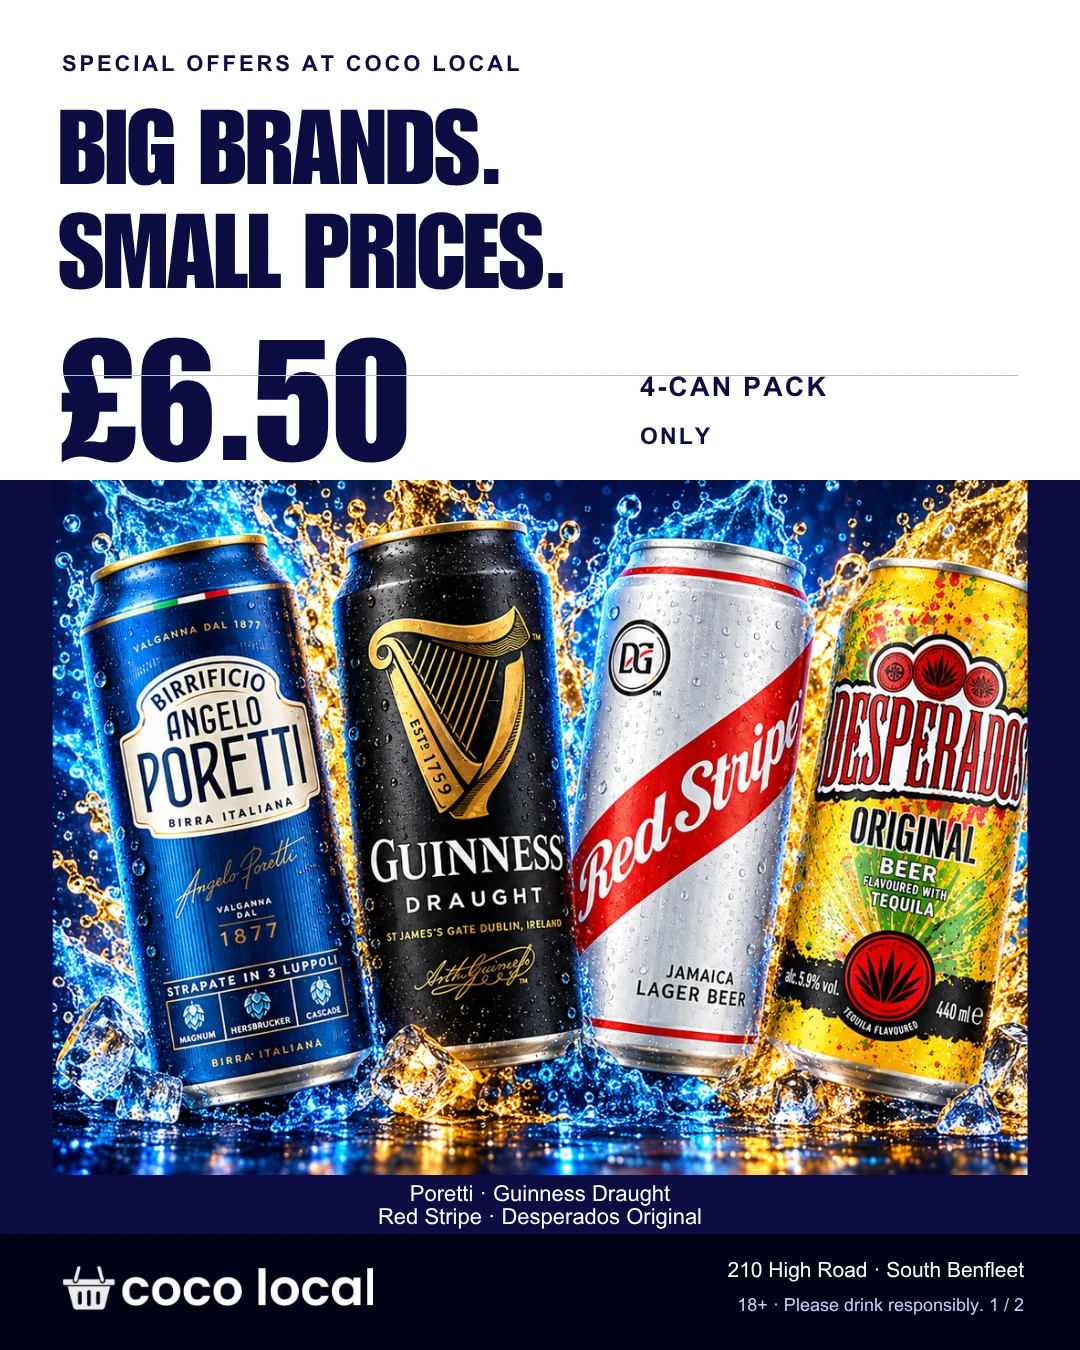
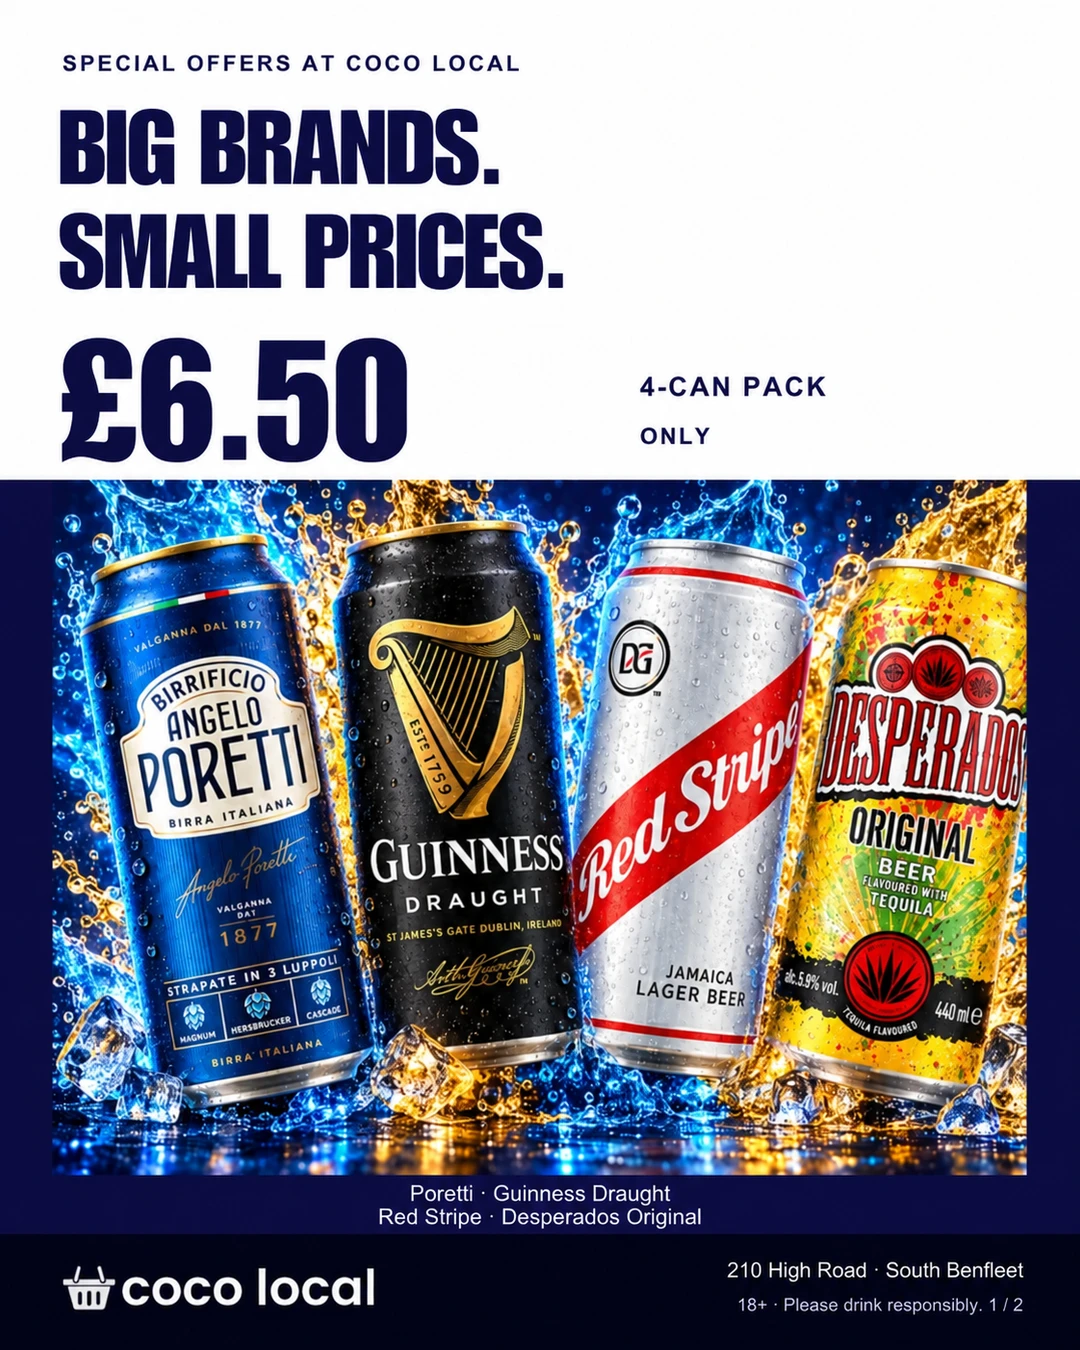
Enlarge daily wheel, add basket and rewards, clean offer artwork

diff --git a/docs/website-improvement-progress.md b/docs/website-improvement-progress.md
@@ -77,3 +77,9 @@ This is a review draft. The patched remote build passed. Do not merge/publish un
 - Unit checks passed with fake-indexeddb: 16 simultaneous attempts over two database connections produce exactly one new result, saved-result persistence, next-day eligibility, summer/winter UK-midnight boundaries, segment bounds, correct-password decryption and wrong-password/tamper rejection. No password found in published source/assets/docs.
 - Private editable source: sibling `outputs/Wheel-Preview/wheel.html`; private password file alongside it. Re-encrypt with `node scripts/encrypt-wheel.mjs SOURCE_HTML ACCESS_JSON` from this repository after changes. Never commit the private access file or decrypted demo HTML.
 - Customer launch still requires real identity/abuse controls, prize inventory, final odds/quantities, redemption verification and approved promotion terms. This implementation is the requested private browser-only demo.
+
+### Wheel and offers refinement — 18 September 2026
+- Enlarged private wheel: full column width, wider desktop allocation, up to 600px on stacked layouts. Moved labels toward rim and used existing Coco basket logo in centre.
+- Ten equal segments: coffee and slushie 20% each, try tomorrow 20%, crisps/chocolate/£1 off/sweet treat 10% each. Additional rewards are demo ideas, not redeemable. Original six indexes retain their meaning so saved draws survive the update. Password unchanged.
+- Removed embedded horizontal lines from beer £6.50/£7.50 and wine website artwork using built-in ImageGen. Prompt for each: remove only the thin horizontal line, preserve prices, wording, products, branding and composition. Website assets: `public/images/offers/beer650.webp`, `beer750.webp`, `wine.webp`. Canva originals unchanged.
+- Validation: rendered wheel SVG inspected; private script parses; UK midnight, concurrent-entry, persistence, randomness and encrypted-gate tests pass. Browser interaction review remains unavailable due to browser-tool policy verification failure.
